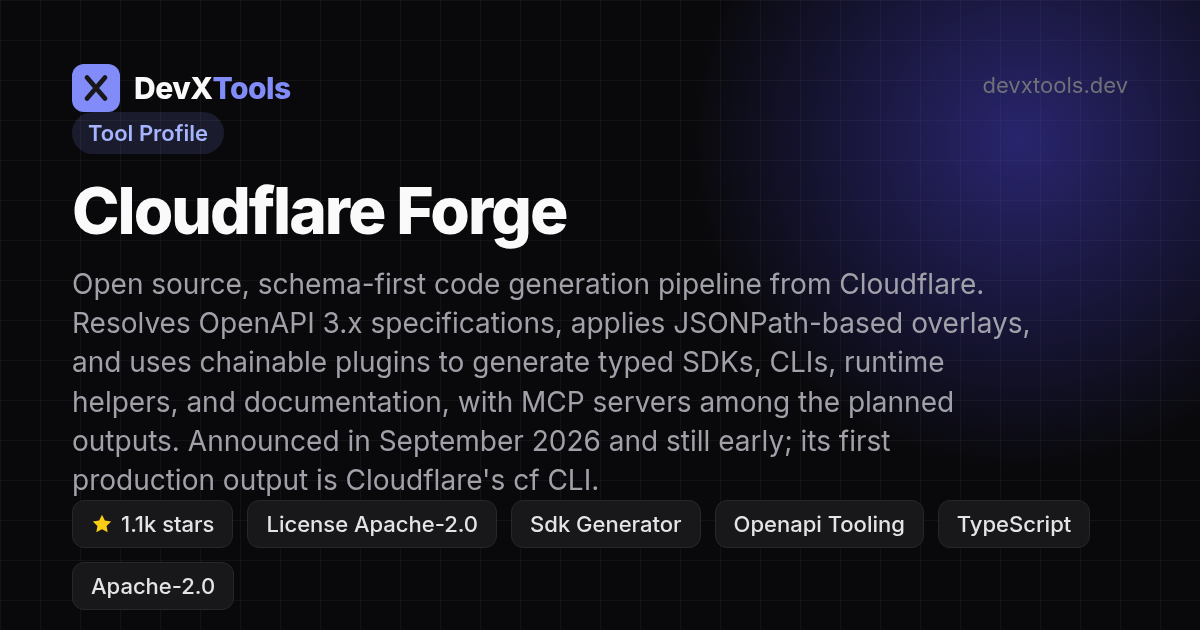
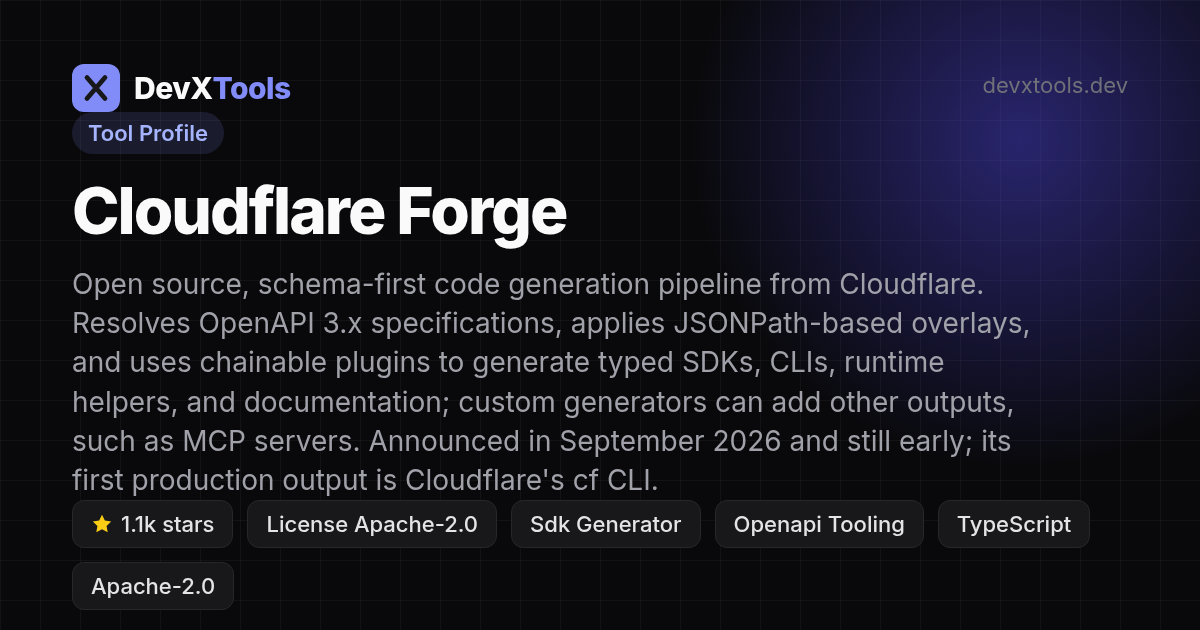
Editor review: neutral alternatives list (schema: alternatives[]), Forge MCP wording, json-server 1.0 beta note

Changed region(s): [[0.0617, 0.6032, 0.8633, 0.7841]]

diff --git a/src/lib/schema.ts b/src/lib/schema.ts
@@ -58,7 +58,10 @@ export const ToolSchema = z.object({
   languageAgnostic: z.boolean().optional(), // True when languages=[] and tool is truly any-language
   status: z.enum(['active', 'maintenance', 'deprecated', 'discontinued']).optional(), // Omitted = active
   statusNote: z.string().optional(), // Sourced explanation shown on the tool page
-  replacedBy: z.string().optional(), // Slug of a recommended alternative in the catalog
+  alternatives: z.array(z.union([
+    z.string(), // catalog slug
+    z.object({ name: z.string(), url: z.string().url() }), // external alternative
+  ])).optional(), // Neutral list of alternatives shown with a non-active status
 }).refine(
   (data) => data.languageAgnostic ? true : data.languages.length > 0,
   { message: 'languages array must have at least one item unless languageAgnostic is true' }
